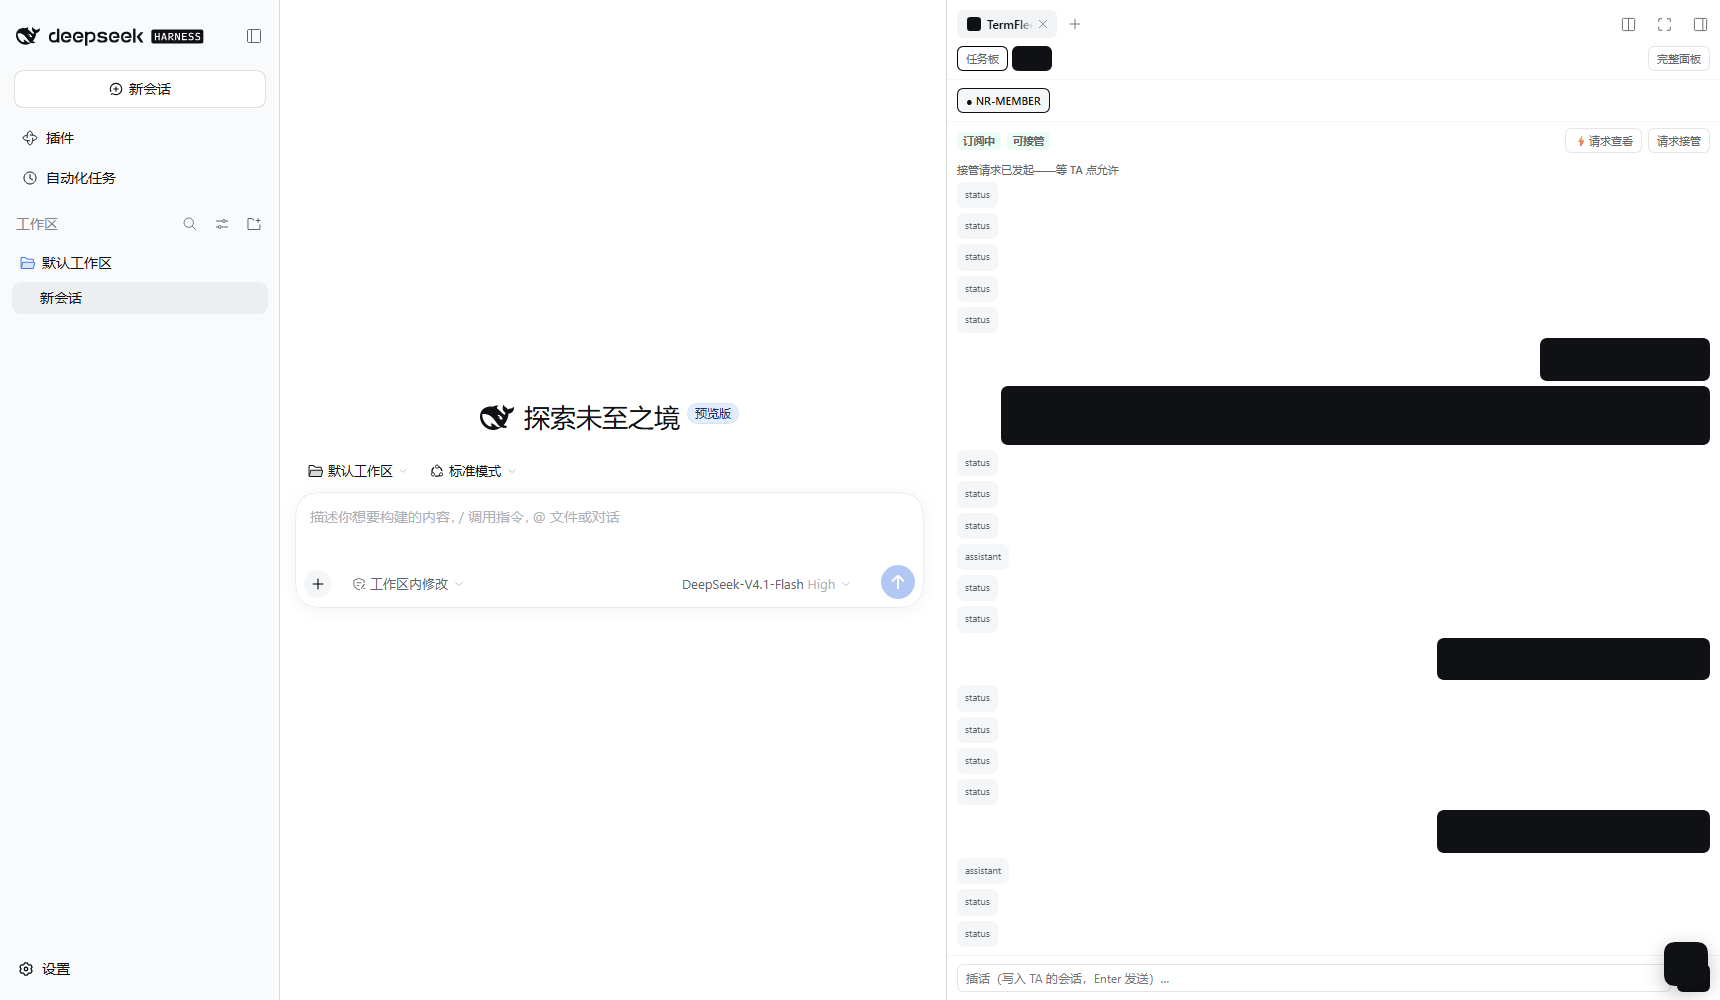
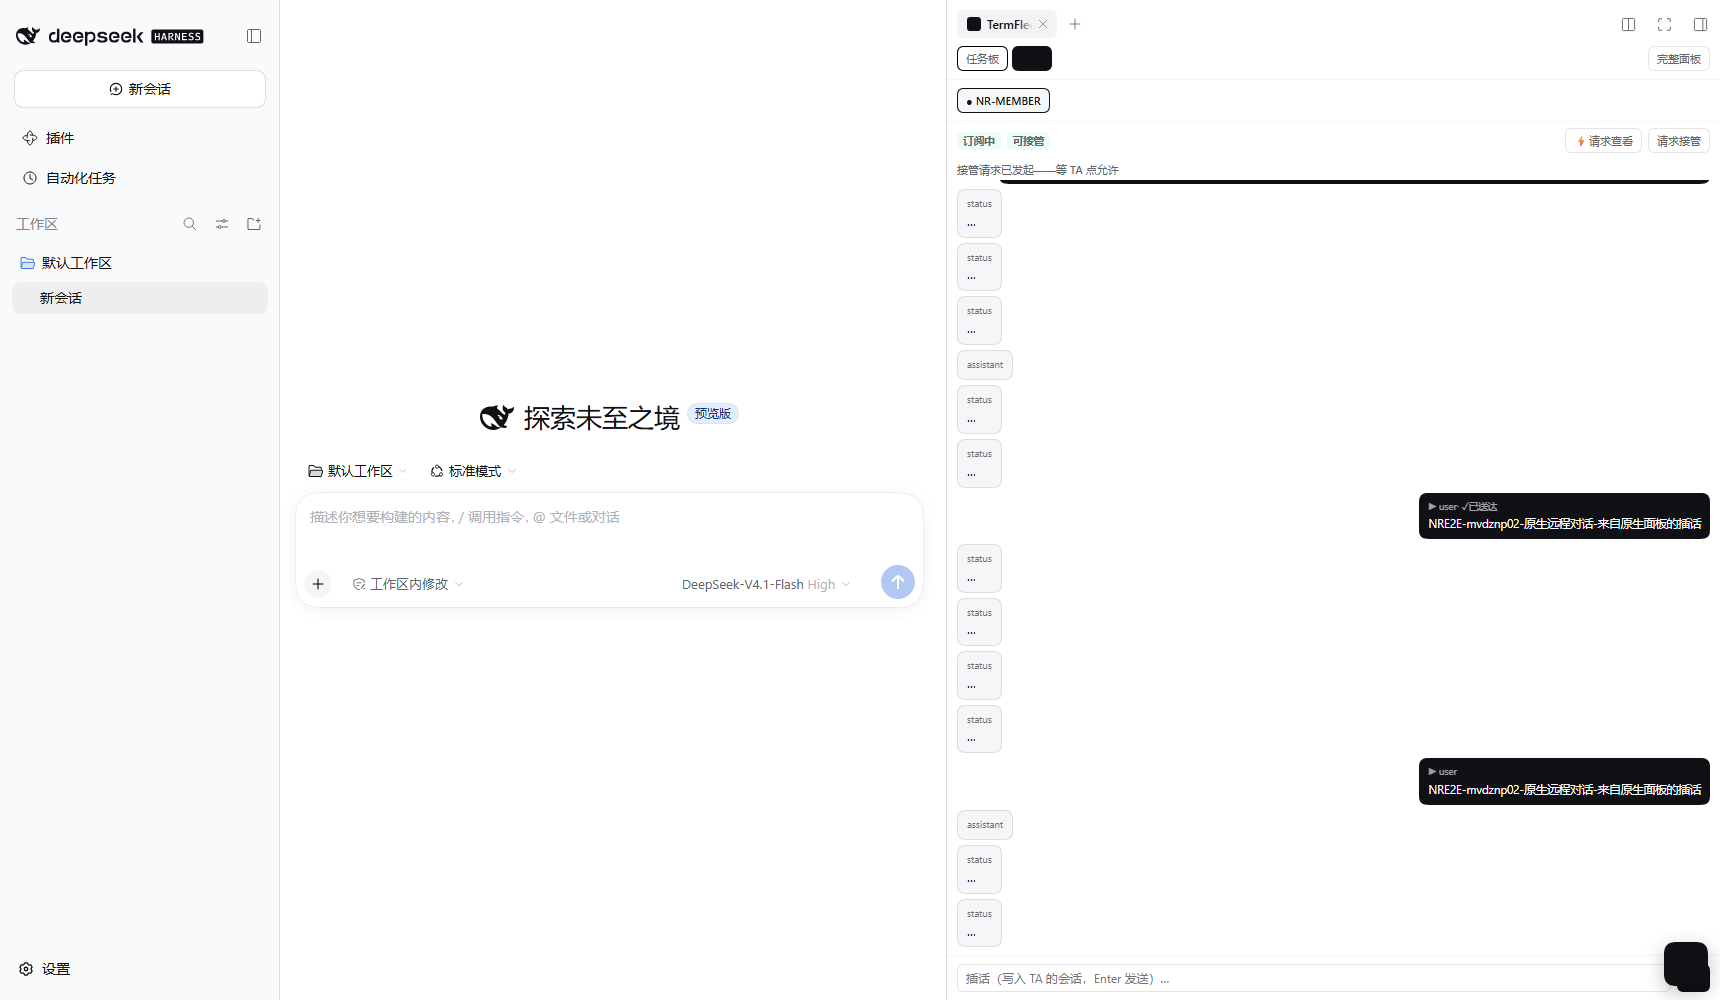
样式全面翻新第一轮: 看板布局修复(6列横滚可见容器+空列「空」占位+卡片优先级色条+⚡徽标+计数chip)+全局色彩系统重调(深色 bg/panel/card 三层分离+新 border 层级+accent 蓝)+滚动条/焦点态/抽屉小节 accent 排版+审计表格对比度+原生远程气泡对比度修复(light 主题下黑底深字不可见)+插话 input 精确清空; 取景脚本 shoot-pages.mjs(双实例种子数据四页全拍); 回归=原生板6/6+远程4/4+共存C1-C4 全绿

diff --git a/lib/app.html b/lib/app.html
@@ -6,8 +6,8 @@
 <title>TermFleet · 团队驾驶舱</title>
 <style>
 :root{--n50:#f9fafb;--n60:#f5f6f7;--n100:#ebeef2;--n150:#e9ecf2;--n300:#cfd3d6;--n400:#adb2b8;--n600:#81858c;--n700:#61666b;--n750:#43454a;--n800:#353638;--n900:#1b1b1c;--n950:#151517;--n1000:#0f1115}
-body{--bg:var(--n950);--card:var(--n900);--card2:var(--n800);--label1:var(--n50);--label2:var(--n300);--label3:var(--n400);--caption:var(--n600);--brand:var(--n50);--brand-fg:var(--n1000);--border:rgba(255,255,255,.06);--border2:rgba(255,255,255,.12);--hover:rgba(255,255,255,.24);--green:#4ed17e;--green-t:rgba(34,197,94,.14);--amber:#f59e0b;--amber-t:rgba(245,158,11,.14);--red:#f25a5a;--red-t:rgba(239,68,68,.14);--blue:#7fa7e8;--blue-t:rgba(59,130,246,.10);background:var(--bg);color:var(--label1)}
-body[data-light]{--bg:#fff;--card:var(--n60);--card2:#fff;--label1:var(--n1000);--label2:var(--n700);--label3:var(--n600);--caption:var(--n400);--brand:var(--n1000);--brand-fg:#fff;--border:rgba(0,0,0,.04);--border2:rgba(0,0,0,.1);--hover:rgba(38,49,72,.14);--green:#15803d;--green-t:rgba(34,197,94,.12);--amber:#b45309;--amber-t:rgba(245,158,11,.12);--red:#dc2626;--red-t:rgba(239,68,68,.10);--blue:#2563eb;--blue-t:rgba(59,130,246,.10)}
+body{--bg:#0d0f12;--panel:#12141a;--card:#181b22;--card2:#22262f;--elev:#1f232b;--label1:#f2f4f7;--label2:#c3c8d0;--label3:#98a0ab;--caption:#6b7280;--brand:#f2f4f7;--brand-fg:#0f1115;--accent:#6ea8ff;--accent-t:rgba(110,168,255,.12);--border:rgba(255,255,255,.07);--border2:rgba(255,255,255,.14);--border3:rgba(255,255,255,.22);--hover:rgba(255,255,255,.06);--green:#4ed17e;--green-t:rgba(78,209,126,.13);--amber:#f5b04d;--amber-t:rgba(245,176,77,.13);--red:#f25a5a;--red-t:rgba(242,90,90,.13);--blue:#7fa7e8;--blue-t:rgba(127,167,232,.12);background:var(--bg);color:var(--label1)}
+body[data-light]{--bg:#f6f7f9;--panel:#eef0f3;--card:#fff;--card2:#fff;--elev:#fff;--label1:#14161a;--label2:#3d434b;--label3:#5f6670;--caption:#9aa1ab;--brand:#14161a;--brand-fg:#fff;--accent:#2563eb;--accent-t:rgba(37,99,235,.08);--border:rgba(15,20,30,.08);--border2:rgba(15,20,30,.14);--border3:rgba(15,20,30,.24);--hover:rgba(38,49,72,.06);--green:#15803d;--green-t:rgba(34,197,94,.12);--amber:#b45309;--amber-t:rgba(245,158,11,.12);--red:#dc2626;--red-t:rgba(239,68,68,.10);--blue:#2563eb;--blue-t:rgba(59,130,246,.10)}
 *{box-sizing:border-box;margin:0;padding:0}
 :root{--ease:cubic-bezier(.4,0,.2,1);--dur:.18s;--dur-fast:.1s}
 body{font-family:-apple-system,BlinkMacSystemFont,'Segoe UI','PingFang SC','Hiragino Sans GB',sans-serif;font-size:14px;line-height:1.55;transition:background .2s,color .2s}
@@ -34,8 +34,13 @@ button:active{opacity:.75}button:disabled{opacity:.4;cursor:not-allowed}
 .dot.on{background:var(--green)}.dot.busy{background:var(--amber)}.dot.off{background:var(--n600)}
 .me{display:flex;align-items:center;gap:6px;font-size:12.5px;color:var(--caption)}
 .me input{background:var(--card2);border:1px solid var(--border2);border-radius:15px;color:var(--label1);padding:0 10px;font-size:12.5px;width:86px;height:30px;outline:none;box-sizing:border-box}
-.panel{background:var(--card);border:1px solid var(--border);border-radius:14px;overflow:hidden}
-.panel h5{font-size:12px;font-weight:600;color:var(--caption);padding:12px 14px 8px;letter-spacing:.3px}
+.panel{background:var(--panel);border:1px solid var(--border);border-radius:16px;overflow:hidden}
+.panel h5{font-size:12px;font-weight:600;color:var(--label2);padding:12px 14px 8px;letter-spacing:.3px}
+::-webkit-scrollbar{width:10px;height:10px}
+::-webkit-scrollbar-thumb{background:var(--border2);border-radius:8px;border:3px solid transparent;background-clip:padding-box}
+::-webkit-scrollbar-thumb:hover{background:var(--border3);border:3px solid transparent;background-clip:padding-box}
+::-webkit-scrollbar-track{background:transparent}
+:focus-visible{outline:2px solid var(--accent);outline-offset:1px;border-radius:4px}
 .page{display:none}.page.on{display:block}
 .note{font-size:12px;color:var(--caption);margin-top:10px}
 .mono{font-family:'SF Mono',Consolas,monospace}
@@ -117,13 +122,17 @@ body[data-light] .term{background:var(--n1000)}
 .seg button.on{background:var(--brand);color:var(--brand-fg);font-weight:600}
 .search{display:flex;align-items:center;gap:6px;background:var(--card2);border:1px solid var(--border);border-radius:999px;padding:0 12px;height:32px;color:var(--caption);font-size:12.5px;box-sizing:border-box}
 .search input{border:0;background:transparent;color:var(--label1);outline:none;font-size:12.5px;width:130px}
-.board{display:grid;grid-template-columns:repeat(5,minmax(196px,1fr));gap:10px;overflow-x:auto;padding-bottom:4px}
-.bcol h4{font-size:12.5px;color:var(--caption);font-weight:600;margin-bottom:8px;display:flex;align-items:center;gap:6px}
-.bcol h4 .cnt{font-size:11px;background:var(--card2);border-radius:6px;padding:0 7px}
-.bcard{position:relative;background:var(--card);border:1px solid var(--border);border-radius:11px;padding:11px 12px;margin-bottom:9px;cursor:pointer;transition:transform var(--dur-fast) var(--ease),border-color var(--dur) var(--ease),box-shadow var(--dur) var(--ease)}
-.bcard:hover{border-color:var(--border2);transform:translateY(-1px);box-shadow:0 4px 16px rgba(0,0,0,.08)}
+.board{display:flex;gap:12px;overflow-x:auto;padding:2px 2px 14px;align-items:flex-start;min-height:460px}
+.bcol{flex:0 0 268px;width:268px;background:var(--panel);border:1px solid var(--border);border-radius:14px;padding:10px;display:flex;flex-direction:column;gap:8px;max-height:calc(100vh - 300px)}
+.bcol h4{font-size:12px;color:var(--label2);font-weight:600;margin:2px 2px 6px;display:flex;align-items:center;gap:7px;letter-spacing:.2px}
+.bcol h4 .cnt{font-size:10.5px;background:var(--card2);border:1px solid var(--border);border-radius:999px;padding:0 7px;color:var(--label3);font-weight:600}
+.bitems{display:flex;flex-direction:column;gap:8px;overflow-y:auto;min-height:36px;max-height:calc(100vh - 380px);padding:1px}
+.bitems:empty::after{content:'空';font-size:11px;color:var(--caption);text-align:center;padding:8px 0;border:1px dashed var(--border);border-radius:9px;opacity:.7}
+.bcard{position:relative;background:var(--card);border:1px solid var(--border);border-radius:12px;padding:10px 11px 9px;cursor:pointer;transition:transform var(--dur-fast) var(--ease),border-color var(--dur) var(--ease),box-shadow var(--dur) var(--ease),background var(--dur-fast) var(--ease)}
+.bcard::before{content:'';position:absolute;left:0;top:10px;bottom:10px;width:3px;border-radius:0 3px 3px 0;background:var(--prio-c,transparent)}
+.bcard[data-prio="P0"]{--prio-c:var(--red)}.bcard[data-prio="P1"]{--prio-c:var(--amber)}.bcard[data-prio="P2"]{--prio-c:var(--border3)}
+.bcard:hover{border-color:var(--border3);transform:translateY(-1px);box-shadow:0 6px 20px rgba(0,0,0,.22);background:var(--elev)}
 .bcard:active{transform:translateY(0) scale(.995)}
-.bcard:hover{border-color:var(--border2);transform:translateY(-1px)}
 .bcard .chead{display:flex;align-items:flex-start;gap:6px}
 .bcard .chead .t{flex:1;min-width:0;font-size:13px;color:var(--label1);font-weight:500;margin-bottom:7px;white-space:nowrap;overflow:hidden;text-overflow:ellipsis}
 .bcard .stq{width:22px;height:22px;padding:0;justify-content:center;border-radius:6px;opacity:.55}
@@ -233,9 +242,10 @@ body[data-light] .term{background:var(--n1000)}
 .doc-outline .ol a:hover{color:var(--label1)}
 .doc-outline .ol a.lnk{color:var(--blue)}
 .doc-body{max-width:700px;font-size:13.5px;color:var(--label2)}
-.doc-body h1{font-size:19px;color:var(--label1);margin:2px 0 4px;font-weight:700}
+.doc-body h1{font-size:20px;color:var(--label1);margin:2px 0 4px;font-weight:700;letter-spacing:.2px}
 .doc-body .meta{font-size:11.5px;color:var(--caption);font-family:'SF Mono',Consolas,monospace;margin-bottom:14px}
-.doc-body h2{font-size:15px;color:var(--label1);margin:20px 0 8px;padding-bottom:5px;border-bottom:1px solid var(--border);font-weight:700}
+.doc-body h2{font-size:13px;color:var(--label2);margin:24px 0 10px;font-weight:600;letter-spacing:.4px;display:flex;align-items:center;gap:8px}
+.doc-body h2::before{content:'';width:3px;height:13px;border-radius:2px;background:var(--accent);flex:none}
 .doc-body p{margin:6px 0;white-space:pre-wrap}
 .note-card{border:1px solid var(--border);border-radius:12px;padding:14px 16px;margin-bottom:12px;background:var(--card)}
 .note-card h6{font-size:13px;display:flex;align-items:center;gap:8px;margin-bottom:6px}
@@ -996,14 +1006,15 @@ function cardMeta(t){
 function renderBoard(){
   var el=document.getElementById('board'); el.innerHTML='';
   STATUSES.forEach(function(st){
-    var col=document.createElement('div'); col.className='bcol';
+    var col=document.createElement('div'); col.className='bcol'; col.setAttribute('data-nb-col',st[0]);
     var items=visible().filter(function(t){ return (ST.proj==='*'||(t.project||'默认')===ST.proj)&&t.status===st[0]; });
-    col.innerHTML='<h4>'+stLabel(st[0])+' <span class="cnt">'+items.length+'</span></h4>';
+    col.innerHTML='<h4>'+stLabel(st[0])+' <span class="cnt">'+items.length+'</span></h4><div class="bitems"></div>';
+    var box=col.querySelector('.bitems');
     items.forEach(function(t){
-      var c=document.createElement('div'); c.className='bcard';
+      var c=document.createElement('div'); c.className='bcard'; c.setAttribute('data-prio',t.prio||'P2');
       c.innerHTML='<div class="chead"><div class="t">'+esc(t.title)+'</div><button class="ibtn stq" data-stmenu="'+t.id+'">'+ic('ChevronDown',13)+'</button></div><div class="m">'+cardMeta(t)+'</div>';
       c.onclick=function(ev){ if(ev.target.closest('.claim')||ev.target.closest('.stq'))return; openDrawer(t.id); };
-      col.appendChild(c);
+      box.appendChild(c);
     });
     el.appendChild(col);
   });

diff --git a/lib/client.js b/lib/client.js
@@ -311,10 +311,11 @@ window.__ModuleLoader__.load({
 				if (listRef.current) listRef.current.scrollTop = listRef.current.scrollHeight; // 会话流置底（v1 恒置底）
 			}, [st.evs.length]);
 			var bubbleEls = st.evs.map(function (b, i) {
-				return h("div", { key: i, "data-nb-ev": b.kind, style: { alignSelf: b.kind === "user" ? "flex-end" : "flex-start", maxWidth: "92%", background: b.kind === "user" ? "var(--dsw-alias-brand-primary, #0f1115)" : "var(--dsw-alias-bg-module-platform, #f5f6f7)", color: b.kind === "user" ? "var(--dsw-alias-brand-primary-invert, #fff)" : "var(--dsw-alias-label-primary, #0f1115)", borderRadius: "9px", padding: "5px 8px", font: "400 11px/1.5 " + NB_FONT, wordBreak: "break-word" } },
-					h("div", { style: { display: "flex", gap: "4px", opacity: ".65", fontSize: "9.5px", marginBottom: "2px" } },
-						(b.kind === "user" ? "▶ " : "") + b.kind, b.pending ? "· 发送中…" : b.ack === true ? "· ✓已送达" : ""),
-					String(b.text).slice(0, 200));
+				var isUser = b.kind === "user";
+				return h("div", { key: i, "data-nb-ev": b.kind, style: { alignSelf: isUser ? "flex-end" : "flex-start", maxWidth: "92%", background: isUser ? "var(--dsw-alias-brand-primary, #181b22)" : "var(--dsw-alias-bg-module-platform, #f0f1f2)", color: isUser ? "var(--dsw-alias-label-primary-foreground, #fff)" : "var(--dsw-alias-label-primary, #14161a)", border: isUser ? "0" : "1px solid var(--dsw-alias-border-l2, rgba(0,0,0,.08))", borderRadius: "10px", padding: "6px 9px", font: "400 11.5px/1.55 " + NB_FONT, wordBreak: "break-word" } },
+					h("div", { style: { display: "flex", gap: "4px", opacity: ".6", fontSize: "9.5px", marginBottom: "2px" } },
+						(isUser ? "▶ " : "") + b.kind, b.pending ? "· 发送中…" : b.ack === true ? "· ✓已送达" : ""),
+					String(b.text || "").slice(0, 200) || (b.kind === "status" ? "…" : ""));
 			});
 			var memberChips = st.members.length ? st.members.map(function (m) {
 				return h("button", { key: m.name, "data-nr-member": m.name, onClick: function () { select(m.name) }, style: { border: "1px solid " + (st.sel === m.name ? "var(--dsw-alias-brand-primary, #0f1115)" : "var(--dsw-alias-border-l2, rgba(0,0,0,.1))"), background: st.sel === m.name ? "var(--dsw-alias-bg-module-platform, #f5f6f7)" : "transparent", borderRadius: "8px", padding: "4px 8px", font: "500 11px " + NB_FONT, color: "var(--dsw-alias-label-primary, #0f1115)", cursor: "pointer", flex: "none" } }, "● " + m.name);
